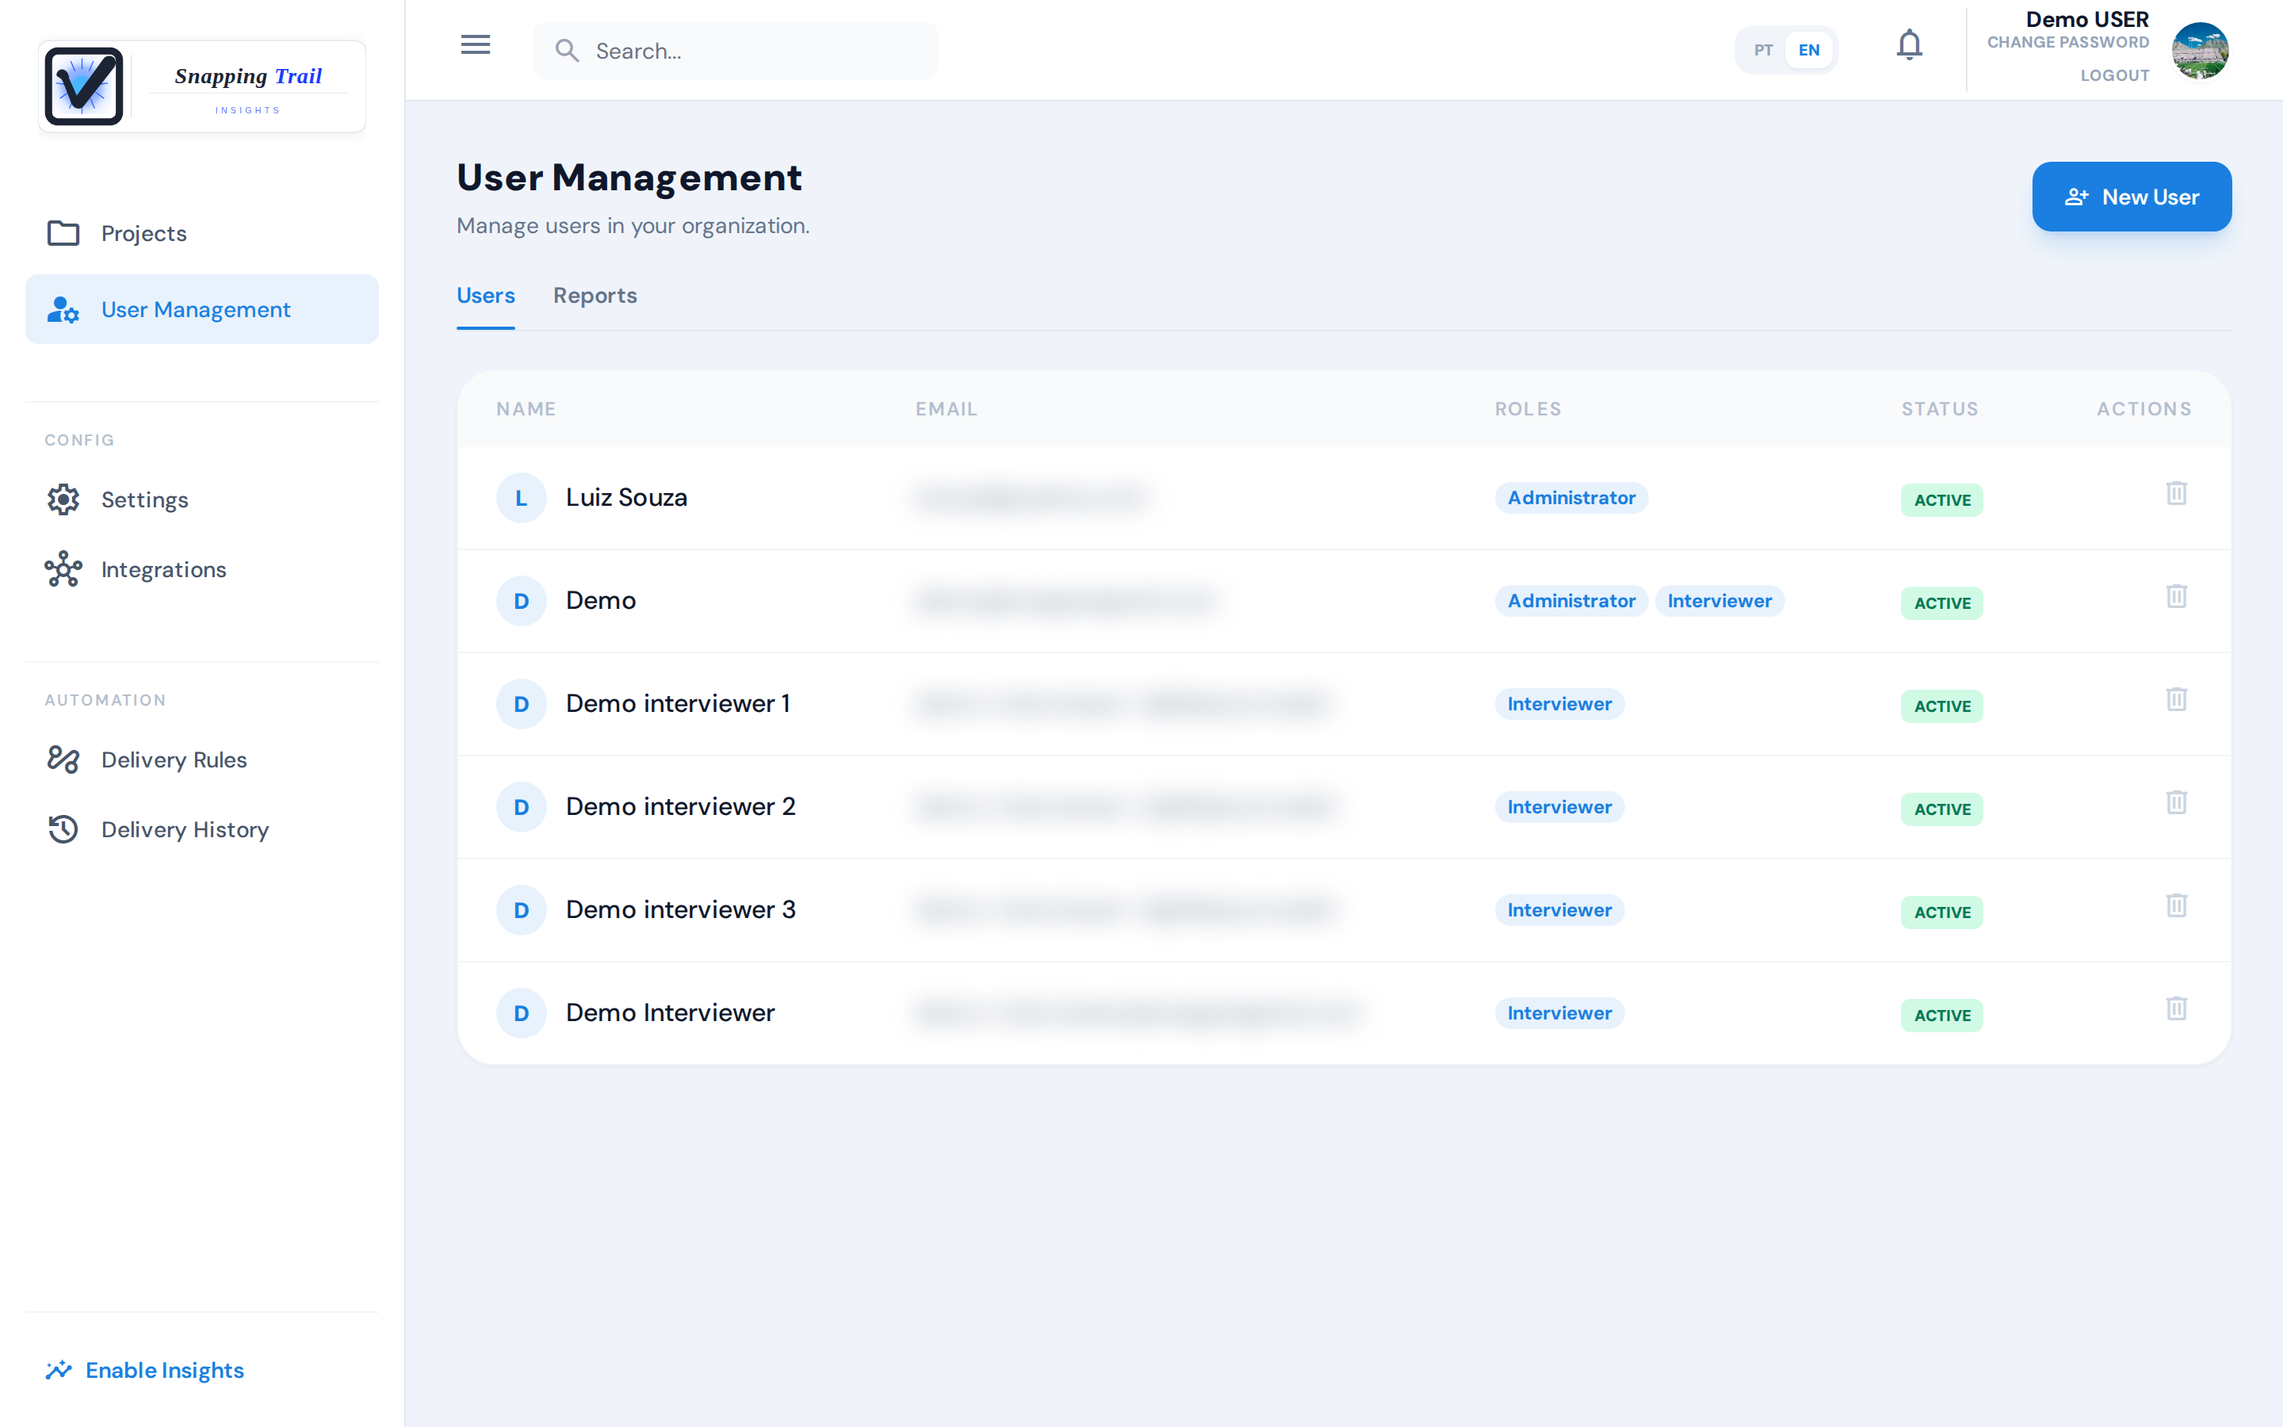
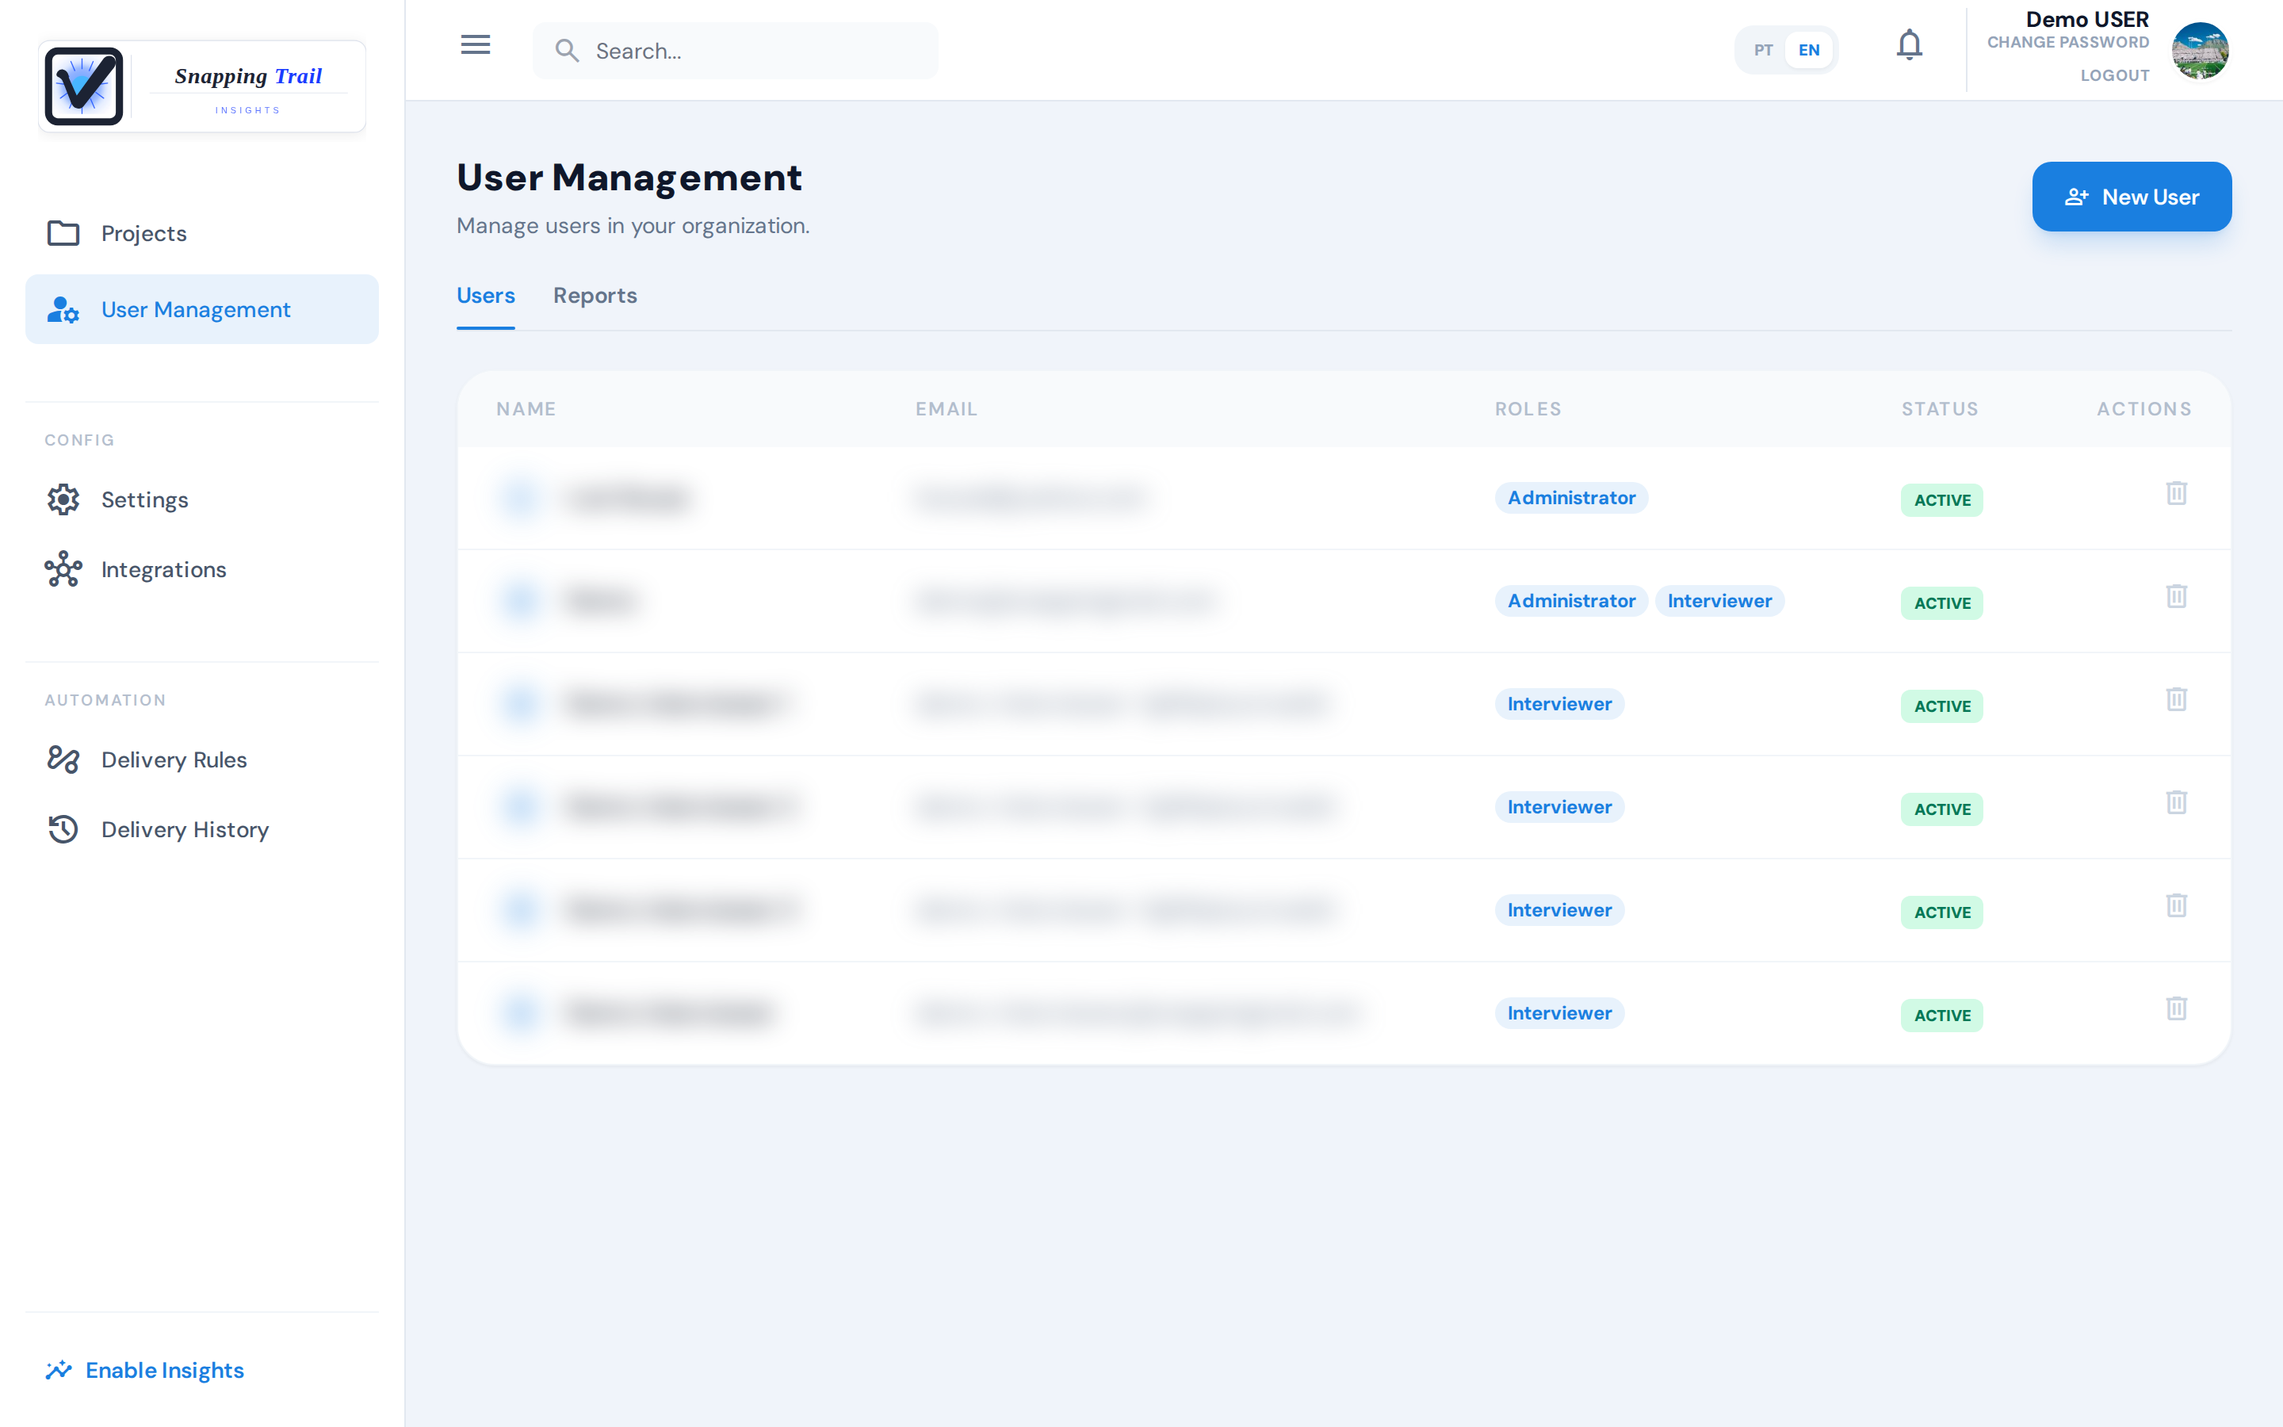
Describe deactivating users and the plan's user and project limits

diff --git a/tools/captures/scripts/administration.spec.js b/tools/captures/scripts/administration.spec.js
@@ -1,6 +1,7 @@
 // The Administration page (docs/administration.md): the list of users, the settings and the
 // billing and plan section. Only screens are read: nothing is saved, created or deleted, and the
-// test fails if any write leaves the browser. The users' emails are blurred in the image.
+// test fails if any write leaves the browser. The users' names and emails are blurred in the image,
+// and so are the prices and the dates of the billing section.
 
 import {expect} from '@playwright/test';
 import {open, signIn, test} from '../lib/capture.js';
@@ -15,9 +16,15 @@ const TEXT = {
   billing: {en: 'Billing & Plan', pt: 'Cobrança & Plano'},
 };
 
-/** The users table's email column (the second), blurred. */
+/** The users table's name and email columns (the first two), blurred. */
 const USERS_CSS = `
-main table td:nth-child(2) { filter: blur(8px) !important; }
+main table td:nth-child(1), main table td:nth-child(2) { filter: blur(8px) !important; }
+`;
+
+/** The billing section's prices (in its buttons) and dates (in its notes), blurred. */
+const BILLING_CSS = `
+[data-capture="billing"] button > span.font-medium { filter: blur(7px) !important; }
+[data-capture="billing"] .bg-amber-50 p { filter: blur(7px) !important; }
 `;
 
 /** Every write to the API recorded. */
@@ -74,6 +81,7 @@ test('billing', async ({page, lang, capture}) => {
   await heading.waitFor();
   const section = heading.locator('xpath=ancestor::div[contains(@class, "rounded-3xl")][1]');
   await scrollToTop(section);
-  await capture(PAGE, 'billing', {element: section});
+  await section.evaluate((el) => el.setAttribute('data-capture', 'billing'));
+  await capture(PAGE, 'billing', {element: section, css: BILLING_CSS});
   expect(writes).toEqual([]);
 });

diff --git a/i18n/pt/docusaurus-plugin-content-docs/current/administration.md b/i18n/pt/docusaurus-plugin-content-docs/current/administration.md
@@ -15,10 +15,10 @@ Em **Gerenciamento de Usuários**, um administrador vê todos da conta: nome, e-
 ### Adicione um usuário
 
 1. Clique em **Novo Usuário**.
-2. Preencha o nome e o e-mail e escolha as funções.
+2. Preencha o nome e o e-mail, escolha as funções e o status: **Ativo** ou **Inativo**.
 3. Clique em **Criar Usuário**.
 
-Um entrevistador recebe um e-mail com uma senha temporária e um link para ativar a conta. No primeiro acesso, ele confirma o e-mail e escolhe a própria senha. Um e-mail que já está na conta, na equipe ou entre os respondentes, não pode ser usado de novo.
+Um usuário ativo, administrador ou entrevistador, recebe um e-mail com uma senha temporária e um link para ativar a conta. No primeiro acesso, ele confirma o e-mail e escolhe a própria senha. Um usuário criado inativo não consegue entrar, e recebe esse e-mail quando você o reativa. Um e-mail que já está na conta, na equipe ou entre os respondentes, não pode ser usado de novo.
 
 ### Funções
 
@@ -27,10 +27,7 @@ Um entrevistador recebe um e-mail com uma senha temporária e um link para ativa
 | Função | O que vê e faz |
 |---|---|
 | **Administrador** | Tudo: usuários, **Integrações**, **Regras de Envio**, o plano, salvar as configurações, e criar e editar pesquisas |
-| **Gerente**, **Coordenador**, **Analista** | Projetos, objetivos, resultados, relatórios, exportações e o **Histórico de Entregas**. Criam e editam projetos, e veem as configurações sem mudá-las |
 | **Entrevistador** | Só **Minhas Pesquisas**: os projetos de que é membro, onde inicia entrevistas das pesquisas ativas e vê as entrevistas que fez. O mesmo no app Collect |
-
-**Gerente**, **Coordenador** e **Analista** não são oferecidos em **Novo Usuário**.
 
 ### Dê a um entrevistador acesso a um projeto
 
@@ -39,11 +36,24 @@ O acesso é por projeto: o entrevistador vê todas as pesquisas dos projetos de 
 1. Abra o projeto e a aba **Gerenciamento de Usuários** dele.
 2. Clique em **Adicionar Membro Existente** e escolha o usuário, ou em **Criar Novo Usuário** para criar um já no projeto.
 
-O entrevistador recebe um e-mail avisando que foi adicionado. **Remover do Projeto** o tira do projeto.
+O entrevistador recebe um e-mail avisando que foi adicionado. **Remover do Projeto** o tira do projeto. Um usuário inativo não aparece para ser adicionado.
+
+### Desative e reative um usuário
+
+**Desativar**, na linha de um usuário, pede confirmação e tira o acesso dele: ele não consegue mais entrar, e as sessões abertas dele são encerradas. As entrevistas e os relatórios de entrevistadores continuam como estão. **Reativar** devolve o acesso.
+
+As entrevistas que ainda estão pendentes no celular de um entrevistador desativado ficam guardadas no app Collect e vão quando ele for reativado e entrar de novo.
 
 ### Exclua um usuário
 
-A lixeira na linha de um usuário o exclui. Ele perde o acesso na hora, e não há como desfazer. Um usuário que participou de uma entrevista não pode ser excluído: as entrevistas dele continuam na conta.
+A lixeira na linha de um usuário o exclui. Ele perde o acesso na hora, e não há como desfazer. Um usuário que participou de uma entrevista não pode ser excluído: desative-o, e as entrevistas dele continuam na conta.
+
+### O que é protegido
+
+- Ninguém exclui nem desativa o próprio usuário.
+- A conta sempre mantém um administrador ativo: o único que resta não pode ser excluído nem desativado.
+
+Nessas linhas, um cadeado aparece no lugar dos botões e diz o motivo.
 
 ## Configurações
 
@@ -105,29 +115,35 @@ Quando a renovação não pode ser cobrada, o plano continua como está por 7 di
 - No teste, ou sem plano: **Continuar com** Starter ou Pro abre a página de pagamento.
 - Com um plano: **Mudar para** o outro plano, ou **Cancelar plano**. Um plano cancelado vale até o fim do período já pago, e **Reativar plano** o traz de volta.
 
-Depois de passar para um plano menor, as pesquisas que já estavam ativas continuam ativas. Só uma nova ativação acima do limite do plano é recusada.
+Depois de passar para um plano menor, os usuários, os projetos e as pesquisas ativas que você já tem continuam. Só acrescentar mais um acima do limite do plano é recusado: criar ou reativar um usuário, criar um projeto, ativar uma pesquisa.
 
 ### O que cada plano inclui
 
 | | Free | Starter | Pro |
 |---|---|---|---|
 | Entrevistas concluídas por mês | 100 | 1.500 | 5.000 |
+| Usuários ativos | 4 | 16 | Sem limite |
+| Projetos | 1 | Sem limite | Sem limite |
 | Pesquisas ativas | 2 | 30 | Sem limite |
 | Integrações | Google Sheets | Google Sheets, Slack, Notion e Webhook | Google Sheets, Slack, Notion e Webhook |
 | Limites dos sinais e pesos do ranking | — | — | ✓ |
 | Linhas por exportação | 500 | 10.000 | Sem limite |
 | Marca d'água nas exportações | Sim | Não | Não |
 
-A exportação completa do histórico da conta não tem limite de linhas nem marca d'água, em todos os planos.
+Usuários inativos não contam no limite de usuários ativos. A exportação completa do histórico da conta não tem limite de linhas nem marca d'água, em todos os planos.
 
 O **Uso de Entrevistas Concluídas** mostra quantas entrevistas foram concluídas no período. Os administradores recebem um e-mail em 80% e em 100% das entrevistas do plano. Em 120%, a coleta por link e pela web para até o próximo período. Num plano pago, o período começa no dia da cobrança; no Free, é o mês do calendário.
 
 ## Exporte o histórico da conta
 
-O **Histórico do Cliente**, em **Configurações**, é para administradores, gerentes, coordenadores e analistas:
+O **Histórico do Cliente**, em **Configurações**, exporta o que a conta tem:
 
 - **PDF**: o resumo de uso da conta e a linha do tempo de atividade das pesquisas.
 - **Precisa de todas as respostas? Exportação completa →**: o uso, a linha do tempo e as respostas de cada entrevista, num arquivo para baixar. O link expira em 48 horas; depois disso, gere outro.
+
+## Encerre a conta
+
+Para encerrar a conta, peça ao suporte.
 
 ## Próximos passos
 

diff --git a/docs/administration.md b/docs/administration.md
@@ -15,10 +15,10 @@ Under **User Management**, an administrator sees everyone on the account: name, 
 ### Add a user
 
 1. Click **New User**.
-2. Fill in the name and the email, and choose the roles.
+2. Fill in the name and the email, choose the roles, and the status: **Active** or **Inactive**.
 3. Click **Create User**.
 
-An interviewer gets an email with a temporary password and a link to activate the account. On the first sign-in, they confirm the email and choose their own password. An email already on the account, as a team member or a respondent, cannot be used again.
+An active user, administrator or interviewer, gets an email with a temporary password and a link to activate the account. On the first sign-in, they confirm the email and choose their own password. A user created inactive cannot sign in, and gets that email when you reactivate them. An email already on the account, as a team member or a respondent, cannot be used again.
 
 ### Roles
 
@@ -27,10 +27,7 @@ An interviewer gets an email with a temporary password and a link to activate th
 | Role | What they see and do |
 |---|---|
 | **Administrator** | Everything: users, **Integrations**, **Delivery Rules**, the plan, saving the settings, and creating and editing surveys |
-| **Manager**, **Coordinator**, **Analyst** | Projects, objectives, results, reports, exports and the **Delivery History**. They create and edit projects, and see the settings without changing them |
 | **Interviewer** | Only **My Surveys**: the projects they are a member of, where they start interviews of active surveys and see the interviews they made. The same in the Collect app |
-
-**Manager**, **Coordinator** and **Analyst** are not offered under **New User**.
 
 ### Give an interviewer access to a project
 
@@ -39,11 +36,24 @@ Access is by project: an interviewer sees every survey of the projects they are 
 1. Open the project and its **User Management** tab.
 2. Click **Add Existing Member** and choose the user, or **Create New User** to create one straight into the project.
 
-The interviewer gets an email saying they were added. **Remove from Project** takes them out of it.
+The interviewer gets an email saying they were added. **Remove from Project** takes them out of it. An inactive user is not offered.
+
+### Deactivate and reactivate a user
+
+**Deactivate**, on a user's row, asks first and then takes away their access: they can no longer sign in, and the sessions they have open are ended. Their interviews and the interviewer reports stay as they are. **Reactivate** gives the access back.
+
+Interviews still waiting on a deactivated interviewer's phone stay in the Collect app, and go once the interviewer is reactivated and signs in again.
 
 ### Delete a user
 
-The bin on a user's row deletes them. The user loses access immediately, and it cannot be undone. A user who took part in an interview cannot be deleted: their interviews stay on the account.
+The bin on a user's row deletes them. The user loses access immediately, and it cannot be undone. A user who took part in an interview cannot be deleted: deactivate them instead, and their interviews stay on the account.
+
+### What is protected
+
+- Nobody deletes or deactivates their own user.
+- The account always keeps an active administrator: the only one left can be neither deleted nor deactivated.
+
+On those rows, a padlock takes the place of the buttons, and says why.
 
 ## Settings
 
@@ -105,29 +115,35 @@ When a renewal cannot be charged, the plan stays as it is for 7 days, and **Bill
 - In the trial, or without a plan: **Continue with** Starter or Pro opens the payment page.
 - With a plan: **Switch to** the other plan, or **Cancel plan**. A cancelled plan stays until the end of the period already paid, and **Reactivate plan** brings it back.
 
-After moving to a smaller plan, the surveys already active stay active. Only a new activation over the plan's limit is refused.
+After moving to a smaller plan, the users, projects and active surveys you already have stay. Only adding one more over the plan's limit is refused: creating or reactivating a user, creating a project, activating a survey.
 
 ### What each plan includes
 
 | | Free | Starter | Pro |
 |---|---|---|---|
 | Completed interviews per month | 100 | 1,500 | 5,000 |
+| Active users | 4 | 16 | Unlimited |
+| Projects | 1 | Unlimited | Unlimited |
 | Active surveys | 2 | 30 | Unlimited |
 | Integrations | Google Sheets | Google Sheets, Slack, Notion and Webhook | Google Sheets, Slack, Notion and Webhook |
 | Signal thresholds and ranking weights | — | — | ✓ |
 | Rows per export | 500 | 10,000 | Unlimited |
 | Watermark on exports | Yes | No | No |
 
-The full export of the account's history has no row limit and no watermark, on every plan.
+Inactive users do not count toward the limit of active users. The full export of the account's history has no row limit and no watermark, on every plan.
 
 **Completed Interviews Usage** shows how many interviews were completed in the period. Administrators get an email at 80% and at 100% of the plan's interviews. At 120%, collection by link and on the web stops until the next period. On a paid plan the period starts on the billing day; on Free, it is the calendar month.
 
 ## Export the account's history
 
-**Customer History**, under **Settings**, is for administrators, managers, coordinators and analysts:
+**Customer History**, under **Settings**, exports what the account has:
 
 - **PDF**: the account's usage summary and the surveys' activity timeline.
 - **Need all responses? Full export →**: the usage, the timeline and every interview's answers, in a file to download. The link expires after 48 hours; after that, generate a new one.
+
+## Close the account
+
+To close the account, ask support.
 
 ## Next steps
 

diff --git a/i18n/pt/docusaurus-plugin-content-docs/current/getting-started.md b/i18n/pt/docusaurus-plugin-content-docs/current/getting-started.md
@@ -43,7 +43,7 @@ Adicione pessoas em **Gerenciamento de Usuários**.
 
 ## Como se orientar
 
-O menu da esquerda muda conforme o seu papel. No alto da tela, **PT / EN** troca o idioma.
+O menu da esquerda muda conforme a sua função. No alto da tela, **PT / EN** troca o idioma.
 
 Os objetivos de pesquisa, que agrupam pesquisas em torno de uma decisão que você precisa tomar, aparecem quando você liga **Ativar Insights**, no pé do menu da esquerda (veja [Resultados](../results)). Eles somem com **Modo Simples**. O selo **Avançado**, no alto, mostra em que modo você está.
 
